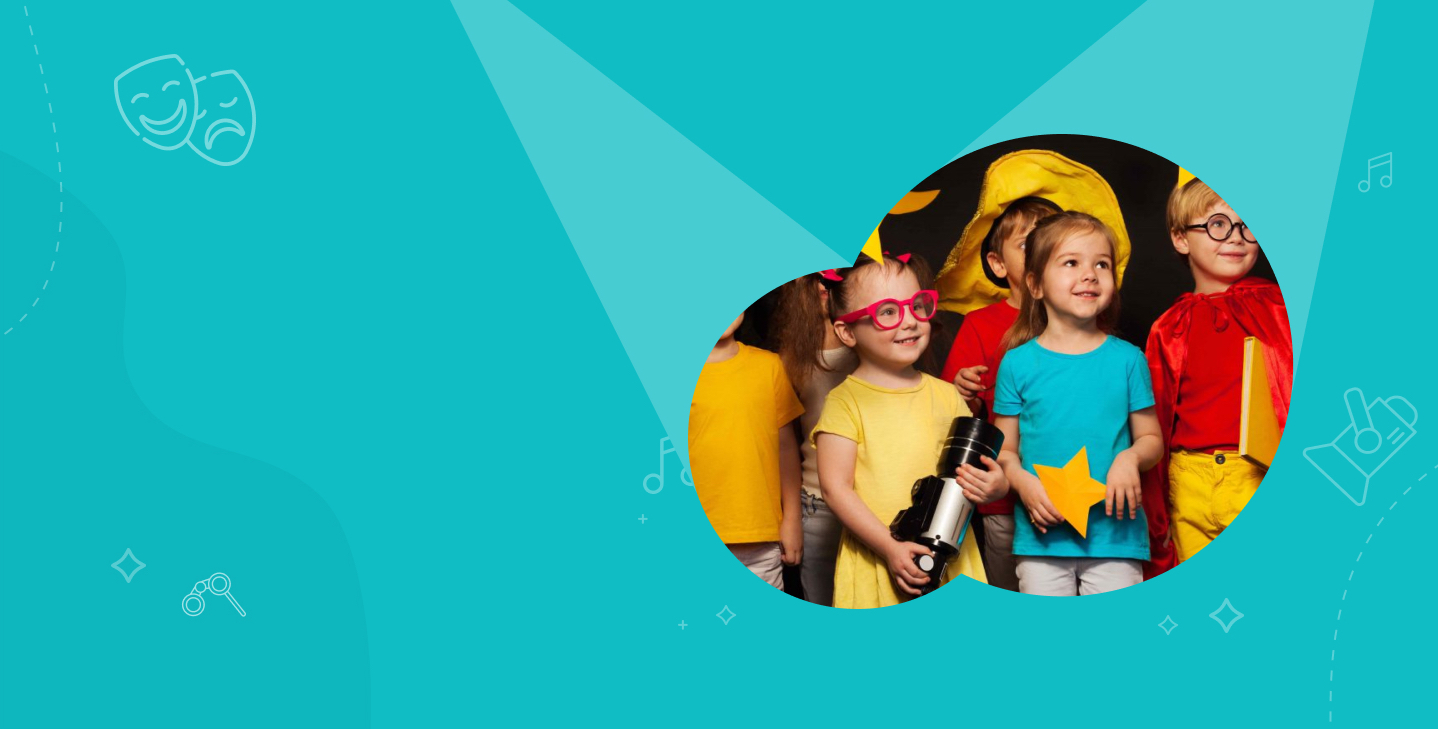
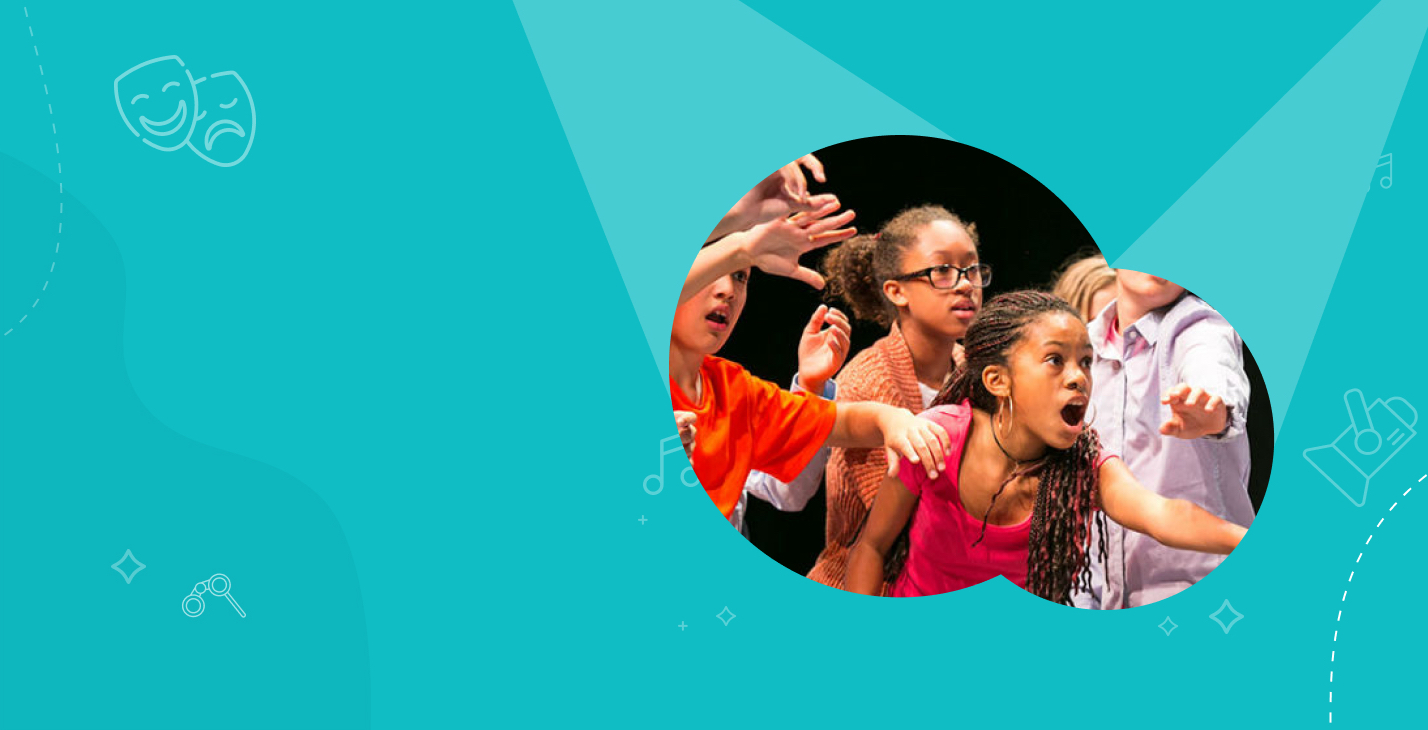
workshop

diff --git a/workshop.html b/workshop.html
@@ -6,7 +6,7 @@
   <meta charset="utf-8">
   <meta content="width=device-width, initial-scale=1.0" name="viewport">
 
-  <title>Mimo: workshop ed attività brevi!</title>
+  <title>Workshop ed attività brevi!</title>
   <meta content="Sito Mimo" name="description">
   <meta content="" name="keywords">
 
@@ -72,14 +72,12 @@
 
   <div class="container" data-aos="zoom-out" data-aos-delay="100">
     <div class="row">
-      <div class="col-md-4 my-auto">
+      <div class="col-md-4">
         <h1>Workshop</h1>
           <br>
-          <p>Et has minim elitr intellegat. Mea aeterno eleifend antiopam ad, 
-            nam no suscipit quaerendum. Et has minim elitr intellegat. 
-            Mea aeterno eleifend antiopam ad, nam no suscipit quaerendum. 
-            Et has minim elitr intellegat. Mea aeterno eleifend antiopam ad, 
-            nam no suscipit quaerendum. </p>
+          <p>Se il tempo che hai a disposizione è poco, la formula del workshop è ciò che fa per la tua classe. 
+            Le opzioni prevedono attività che ammontano a 8, 24 o 40 ore e includono sperimentazione corporea, 
+            dizione, immedesimazione e un breve spettacolo finale.</p>
             <br>
             <ul>
               <li class="hero-features"><img src="assets/img/percorsi/age.png" alt="icona bambini range età" class="features">dai 6 agli 11 anni</li>
@@ -134,11 +132,10 @@
         <div class="row portfolio-container" data-aos="fade-up" data-aos-delay="200">
 
           <div class="col-lg-3 offset-lg-1 portfolio-item filter-7 filter-125 filter-24">
-            <img src="assets/img/home/community-2.jpg" class="img-fluid pacchetti-img" alt="immagine pacchetto Fiabe">
+            <img src="assets/img/workshop/animali.jpg" class="img-fluid pacchetti-img" alt="immagine pacchetto Fiabe">
               <div class="pacchetto-info">
                 <h4>GLI ANIMALI DEL BOSCO</h4>
-                <p>Et has minim elitr intellegat. Mea aeterno eleifend antiopam ad, 
-                  nam no suscipit quaerendum.</p>
+                <br>
                   <ul>
                     <li class="features-1"><img src="assets/img/workshop/durata.png" alt="icona bambini range età" class="features">24 ore</li>
                     <li class="features-1 age-icon"><img src="assets/img/workshop/age-grey.png" alt="icona prezzo" class="features">6/7 anni</li>
@@ -150,11 +147,10 @@
           </div>
 
           <div class="col-lg-3 offset-lg-1 portfolio-item filter-9 filter-40 filter-150">
-            <img src="assets/img/home/community-2.jpg" class="img-fluid pacchetti-img" alt="immagine pacchetto Fiabe">
+            <img src="assets/img/workshop/voce.jpg" class="img-fluid pacchetti-img" alt="immagine pacchetto Fiabe">
               <div class="pacchetto-info">
                 <h4>VOCE!</h4>
-                <p>Et has minim elitr intellegat. Mea aeterno eleifend antiopam ad, 
-                  nam no suscipit quaerendum.</p>
+                <br>
                   <ul>
                     <li class="features-1"><img src="assets/img/workshop/durata.png" alt="icona bambini range età" class="features">40 ore</li>
                     <li class="features-1 age-icon"><img src="assets/img/workshop/age-grey.png" alt="icona prezzo" class="features">8/9 anni</li>
@@ -166,11 +162,10 @@
           </div>
 
           <div class="col-lg-3 offset-lg-1 portfolio-item filter-7 filter-8 filter-90">
-            <img src="assets/img/home/community-2.jpg" class="img-fluid pacchetti-img" alt="immagine pacchetto Fiabe">
+            <img src="assets/img/workshop/principe.jpg" class="img-fluid pacchetti-img" alt="immagine pacchetto Fiabe">
               <div class="pacchetto-info">
-                <h4>UN MAGICO NATALE</h4>
-                <p>Et has minim elitr intellegat. Mea aeterno eleifend antiopam ad, 
-                  nam no suscipit quaerendum.</p>
+                <h4>IL PICCOLO PRINCIPE</h4>
+                <br>
                   <ul>
                     <li class="features-1"><img src="assets/img/workshop/durata.png" alt="icona bambini range età" class="features">8 ore</li>
                     <li class="features-1 age-icon"><img src="assets/img/workshop/age-grey.png" alt="icona prezzo" class="features">6/7 anni</li>
@@ -182,11 +177,10 @@
           </div>
 
           <div class="col-lg-3 offset-lg-1 portfolio-item filter-11 filter-24 filter-125">
-            <img src="assets/img/home/community-2.jpg" class="img-fluid pacchetti-img" alt="immagine pacchetto Fiabe">
+            <img src="assets/img/workshop/natale.jpg" class="img-fluid pacchetti-img" alt="immagine pacchetto Fiabe">
               <div class="pacchetto-info">
-                <h4>TI FIDI DI ME?</h4>
-                <p>Et has minim elitr intellegat. Mea aeterno eleifend antiopam ad, 
-                  nam no suscipit quaerendum.</p>
+                <h4>UN MAGICO NATALE</h4>
+                <br>
                   <ul>
                     <li class="features-1"><img src="assets/img/workshop/durata.png" alt="icona bambini range età" class="features">24 ore</li>
                     <li class="features-1 age-icon"><img src="assets/img/workshop/age-grey.png" alt="icona prezzo" class="features">10/11 anni</li>
@@ -198,11 +192,10 @@
           </div>
     
           <div class="col-lg-3 offset-lg-1 portfolio-item filter-11 filter-8 filter-90">
-            <img src="assets/img/home/community-2.jpg" class="img-fluid pacchetti-img" alt="immagine pacchetto Fiabe">
+            <img src="assets/img/workshop/burattini.jpg" class="img-fluid pacchetti-img" alt="immagine pacchetto Fiabe">
               <div class="pacchetto-info">
-                <h4>I SUONI DEL MARE</h4>
-                <p>Et has minim elitr intellegat. Mea aeterno eleifend antiopam ad, 
-                  nam no suscipit quaerendum.</p>
+                <h4>I BURATTINI</h4>
+                <br>
                   <ul>
                     <li class="features-1"><img src="assets/img/workshop/durata.png" alt="icona bambini range età" class="features">8 ore</li>
                     <li class="features-1 age-icon"><img src="assets/img/workshop/age-grey.png" alt="icona prezzo" class="features">10/11 anni</li>
@@ -214,11 +207,10 @@
           </div>
     
           <div class="col-lg-3 offset-lg-1 portfolio-item filter-9 filter-40 filter-150">
-            <img src="assets/img/home/community-2.jpg" class="img-fluid pacchetti-img" alt="immagine pacchetto Fiabe">
+            <img src="assets/img/workshop/improvvisare.jpg" class="img-fluid pacchetti-img" alt="immagine pacchetto Fiabe">
               <div class="pacchetto-info">
                 <h4>PRONTI AD IMPROVVISARE?</h4>
-                <p>Et has minim elitr intellegat. Mea aeterno eleifend antiopam ad, 
-                  nam no suscipit quaerendum.</p>
+                <br>
                   <ul>
                     <li class="features-1"><img src="assets/img/workshop/durata.png" alt="icona bambini range età" class="features">40 ore</li>
                     <li class="features-1 age-icon"><img src="assets/img/workshop/age-grey.png" alt="icona prezzo" class="features">8/9 anni</li>

diff --git a/assets/css/workshop-style.css b/assets/css/workshop-style.css
@@ -29,6 +29,40 @@
   color: #ffffff;
 }
 
+@media (max-width: 375px) {
+  #hero {
+    text-align: center;
+    padding-top: 58px;
+    padding: 10px;
+  }
+
+  #hero:before {
+    content: "";
+    background:rgba(0, 0, 0, 0.3);
+    position: absolute;
+    bottom: 0;
+    top: 0;
+    left: 0;
+    right: 0;
+  }
+
+  #hero h1 {
+    font-size: 45px;
+    margin-top: 80px;
+  }
+
+  #hero h2 {
+    font-size: 18px;
+    line-height: 24px;
+  }
+}
+
+@media (max-height: 500px) {
+  #hero {
+    height: 120vh;
+  }
+}
+
 
 
 /*--------------------------------------------------------------
@@ -63,7 +97,7 @@ li p{
 }
 
 .portfolio{
-  margin-top: 30px;
+  margin-top: 20px;
 }
 
 .portfolio p {

diff --git a/percorso-singolo.html b/percorso-singolo.html
@@ -390,7 +390,7 @@
       <div class="row riepilogo" data-aos="fade-up">
 
         <div class="col-lg-6 my-auto">
-          <h4>Pacchetto "Fiabe"</h4>
+          <h4>Percorso "Fiabe"</h4>
           <p>6 Attività propedeutiche + 1 spettacolo finale a scelta</p>
         </div>
 
